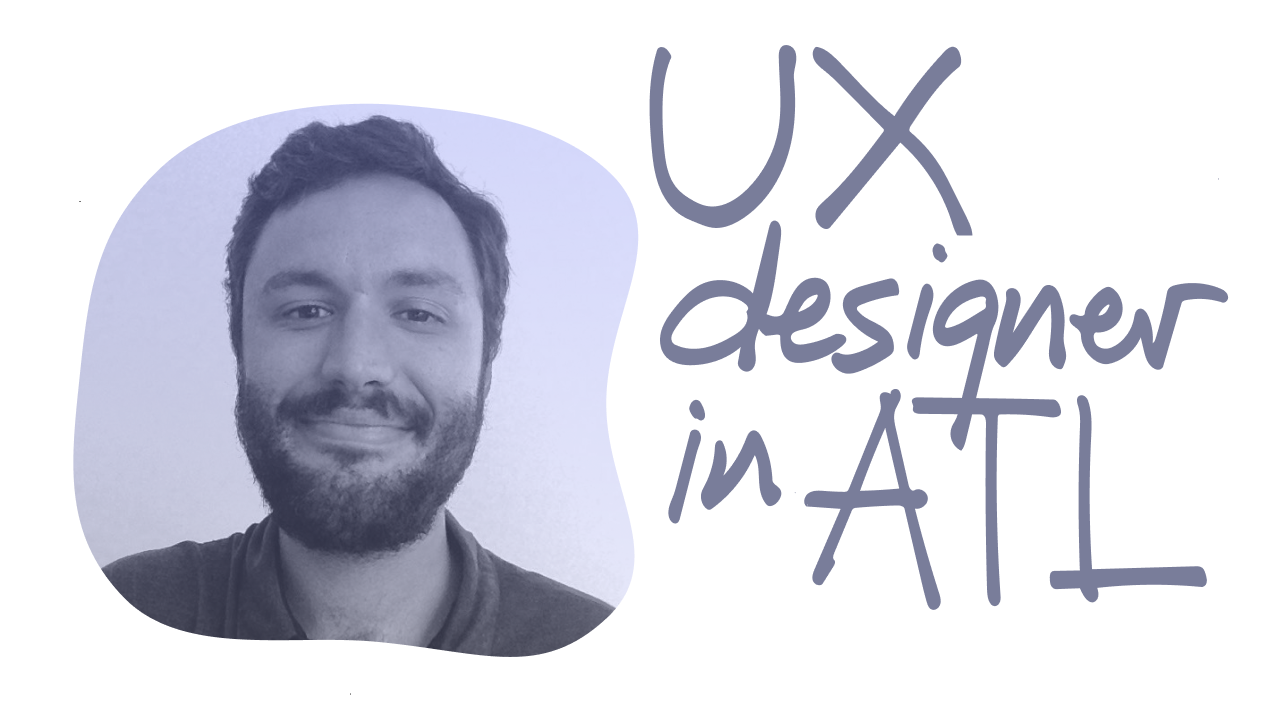
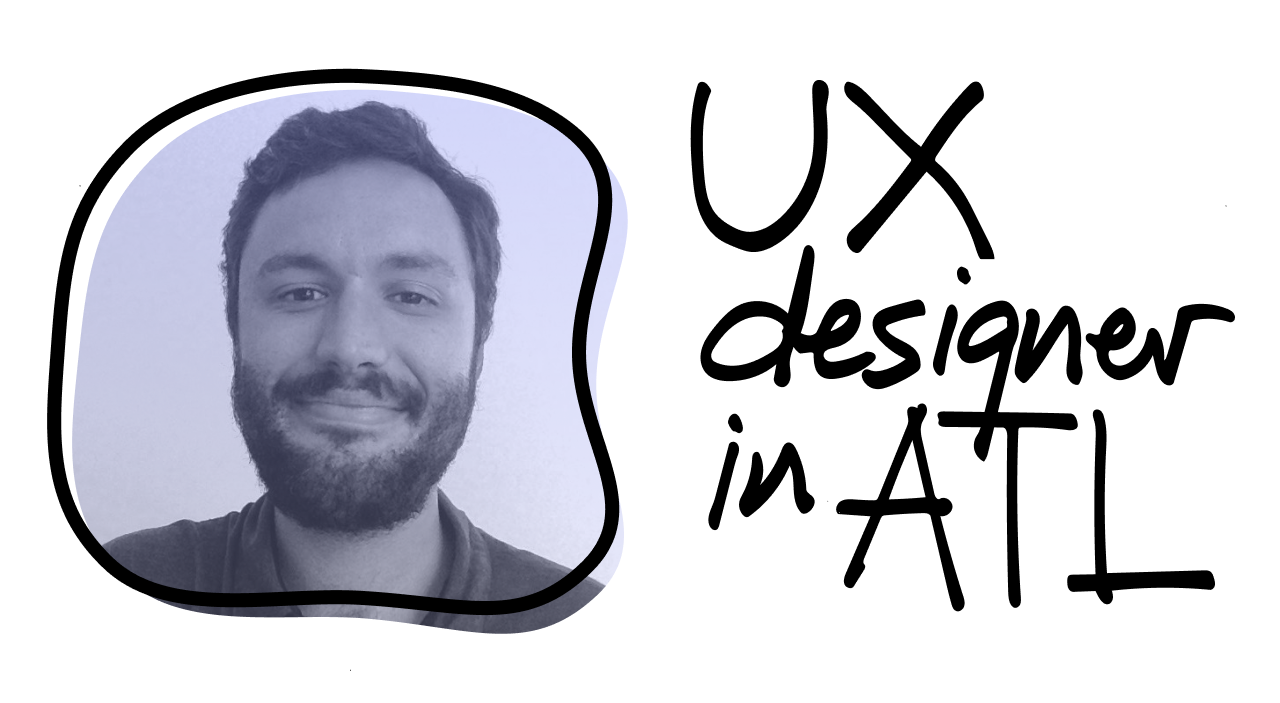
updates assets

Changed region(s): [[0.0312, 0.0597, 0.9688, 0.926]]

diff --git a/blog.md b/blog.md
@@ -3,3 +3,5 @@ layout: blog
 title: Blog
 permalink: /blog/
 ---
+
+![](/assets/img/squiggle-pencil.png)
